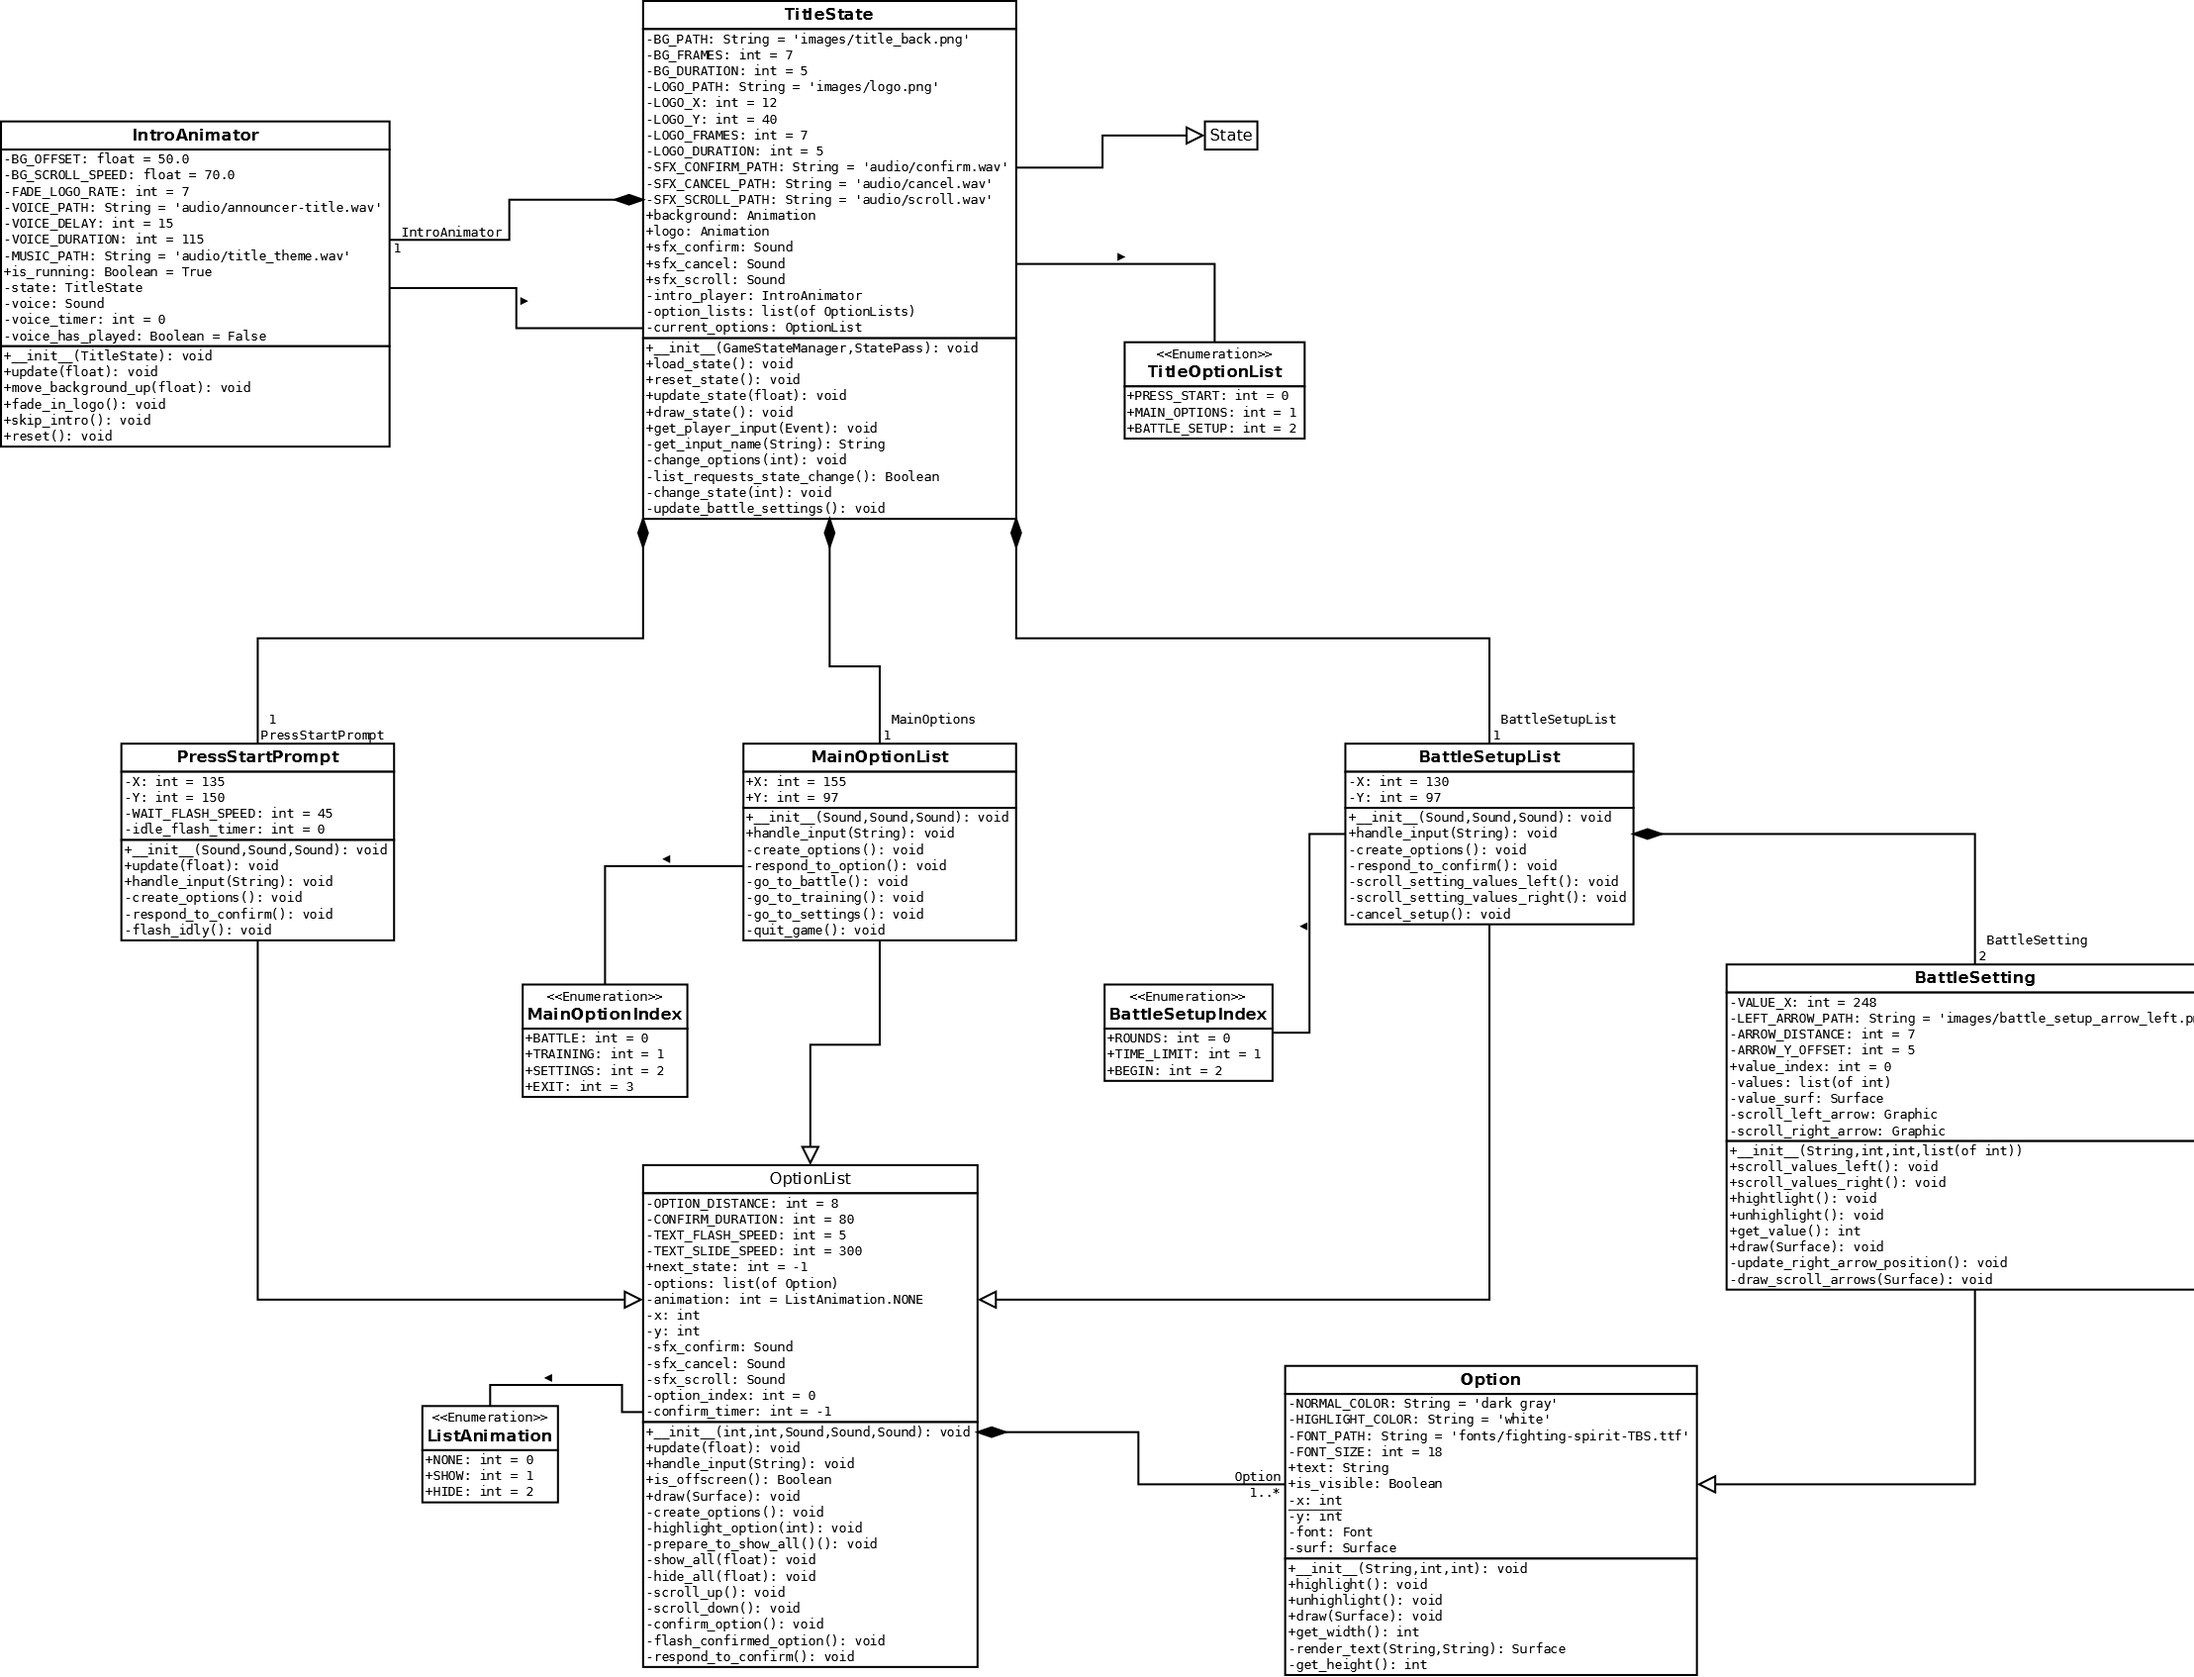
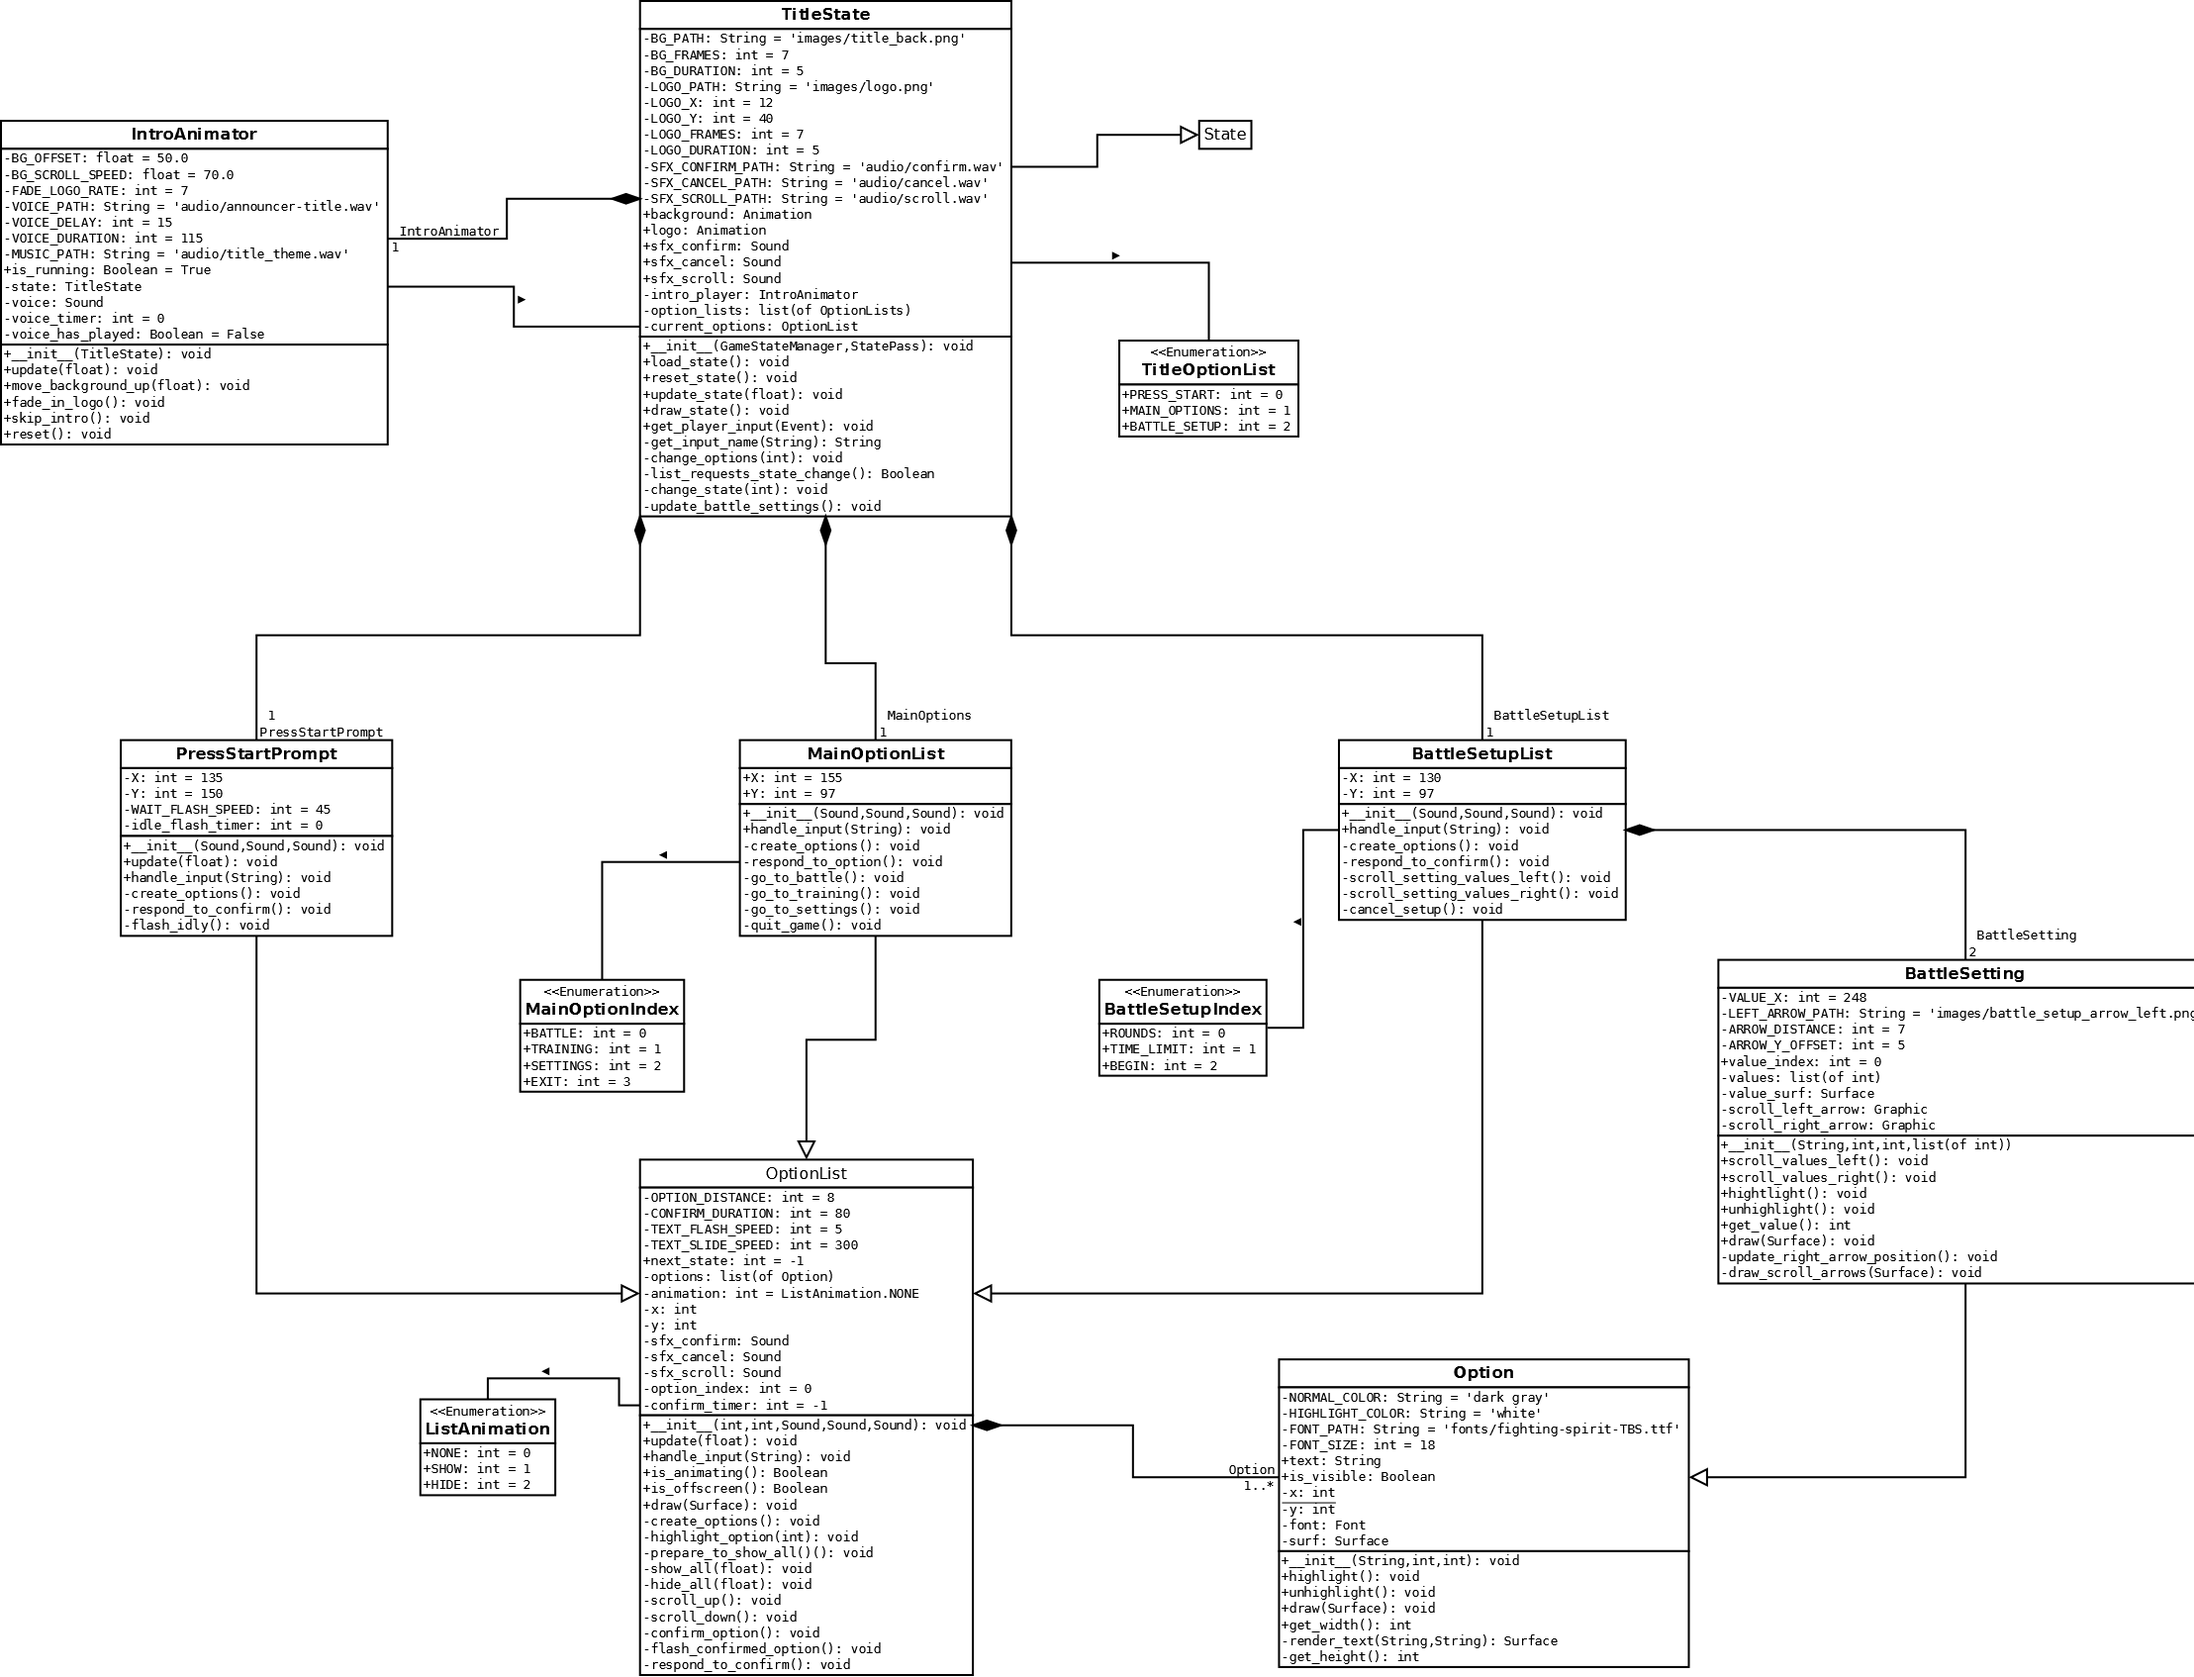
OptionList: Add is_animating()
TitleState will use this method to determine whether input should be
accepted.

diff --git a/lib/game_states/title_state_new.py b/lib/game_states/title_state_new.py
@@ -296,6 +296,19 @@ class OptionList(object):
         if self.is_offscreen():
             self.animation = ListAnimation.SHOW
 
+    def is_animating(self):
+        """Determine whether this OptionList is currently performing an
+        animation.
+
+        Returns:
+            True if an Option is flashing or either of the slide in/out
+            animations are being performed; False otherwise.
+        """
+        if self.confirm_timer > -1 or self.animation != ListAnimation.NONE:
+            return True
+        else:
+            return False
+
     def is_offscreen(self):
         """Return a Boolean indicating whether all of the Options in
         this list are outside of the game window's viewable drawing
